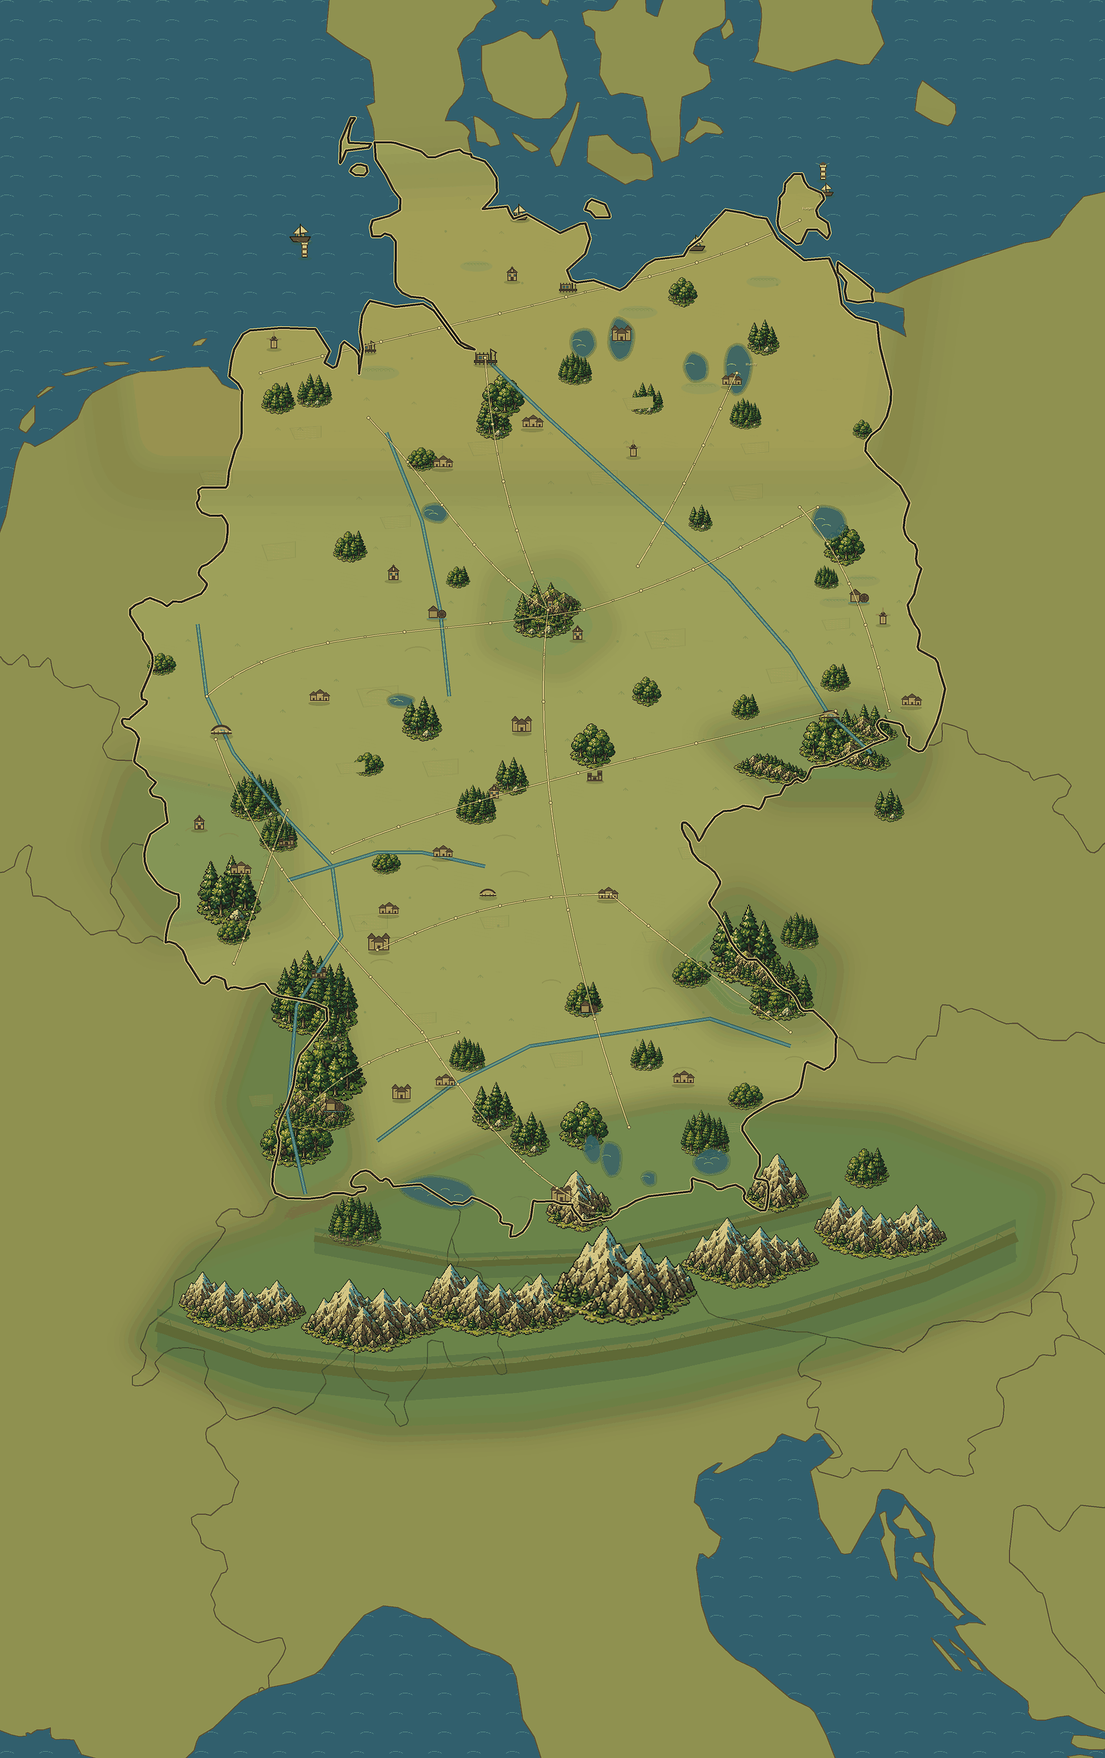
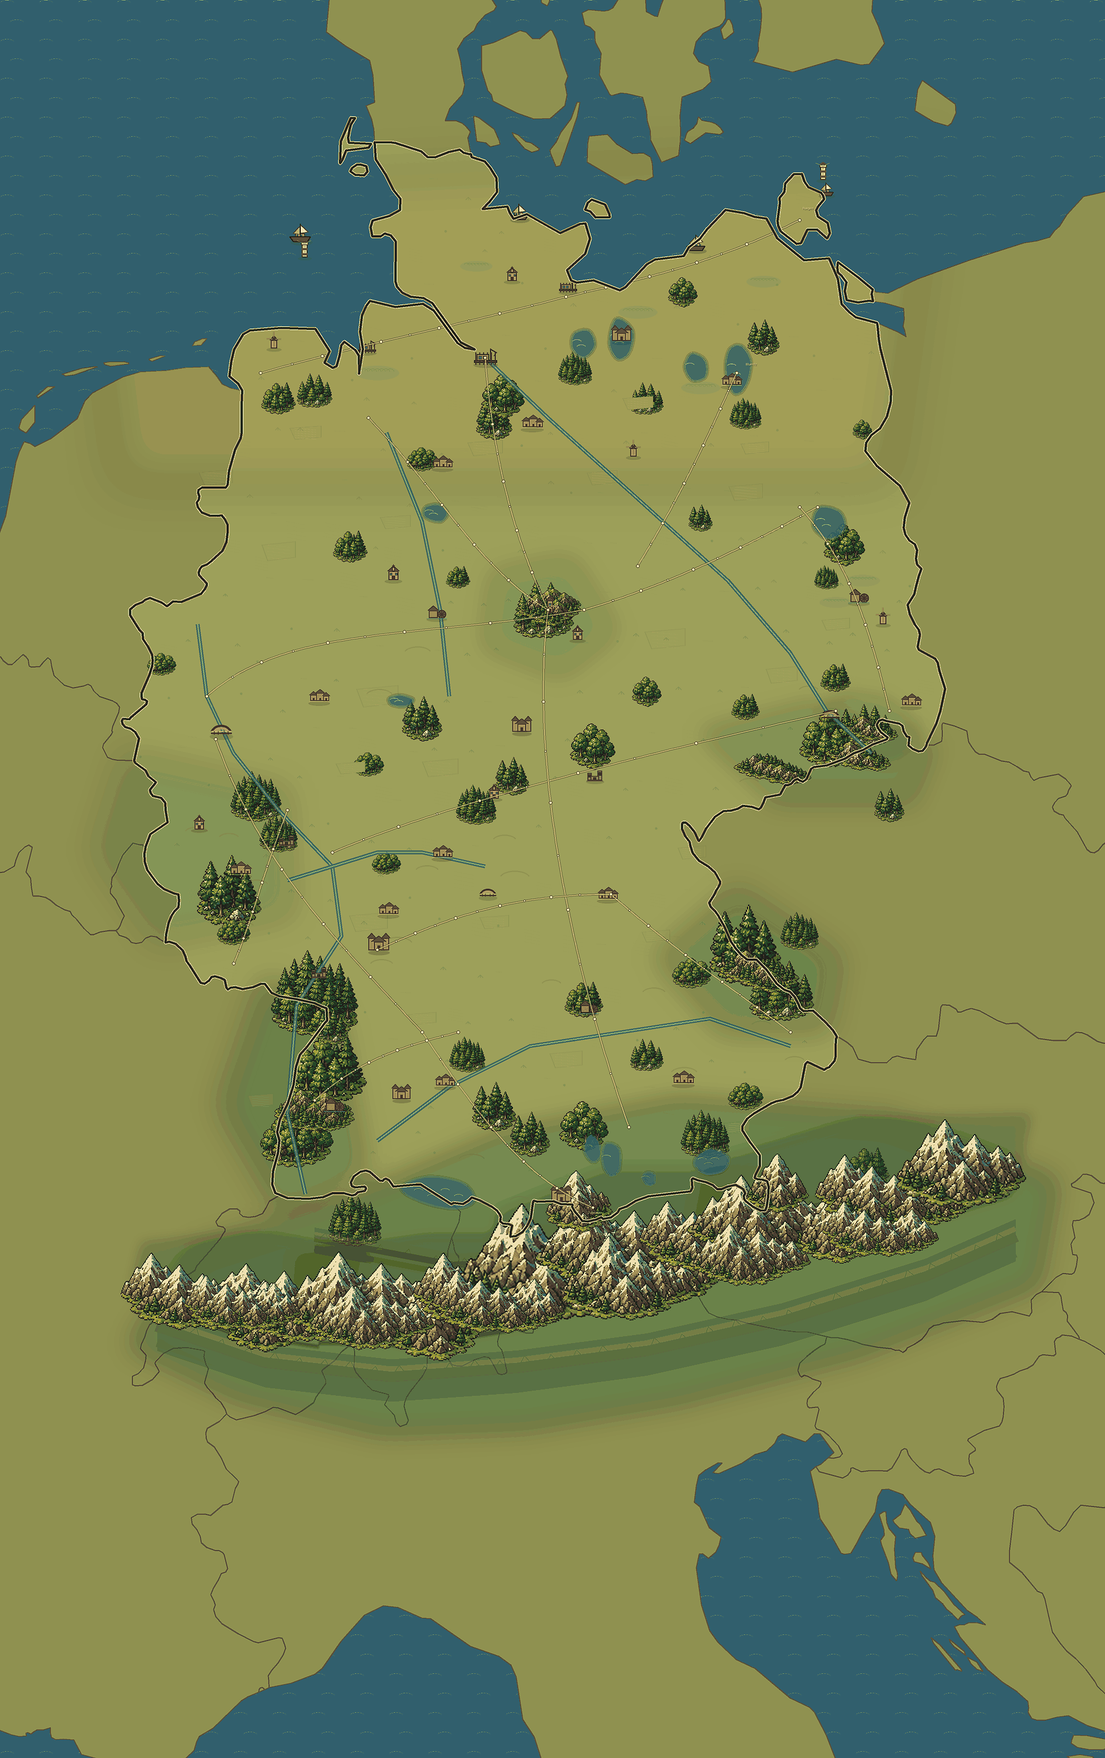
Compose Alps as a massif layer

diff --git a/map_pipeline/compose_map.py b/map_pipeline/compose_map.py
@@ -116,6 +116,55 @@ NAMED_WATER_BODIES = [
     },
 ]
 
+ALPINE_MASSIF_SEGMENTS = [
+    {
+        "id": "western_alps_massif",
+        "label": "Western Alps",
+        "arc": [(6.20, 46.78), (7.10, 46.55), (8.05, 46.45)],
+        "shadow": [(6.00, 46.95), (7.05, 46.66), (8.35, 46.58), (8.55, 47.18), (7.25, 47.30), (6.10, 47.22)],
+        "glyphs": [
+            ("alps_range_3", 6.75, 46.78, 300, 0.00),
+            ("alps_peak_1", 7.45, 46.58, 150, -0.03),
+            ("alps_range_1", 7.92, 46.72, 255, 0.04),
+        ],
+    },
+    {
+        "id": "swiss_alps_massif",
+        "label": "Swiss Alps",
+        "arc": [(8.05, 46.48), (9.10, 46.46), (10.20, 46.58)],
+        "shadow": [(7.75, 46.70), (9.05, 46.46), (10.45, 46.62), (10.65, 47.28), (9.25, 47.28), (7.80, 47.14)],
+        "glyphs": [
+            ("alps_range_1", 8.60, 46.72, 330, 0.00),
+            ("alps_peak_2", 9.35, 46.52, 170, -0.05),
+            ("alps_range_3", 10.00, 46.82, 300, 0.03),
+        ],
+    },
+    {
+        "id": "bavarian_tyrol_alps_massif",
+        "label": "Bavarian and Tyrol Alps",
+        "arc": [(10.20, 46.60), (11.30, 46.82), (12.45, 47.05)],
+        "shadow": [(9.95, 46.84), (11.25, 46.74), (12.75, 47.06), (12.95, 47.78), (11.25, 47.78), (10.05, 47.46)],
+        "glyphs": [
+            ("alps_range_2", 10.55, 46.96, 330, 0.00),
+            ("alps_range_1", 11.42, 47.12, 320, -0.01),
+            ("alps_peak_1", 12.05, 46.95, 160, -0.06),
+            ("alps_range_3", 12.45, 47.24, 275, 0.03),
+        ],
+    },
+    {
+        "id": "austrian_alps_massif",
+        "label": "Austrian Alps",
+        "arc": [(12.45, 47.05), (13.70, 47.28), (15.25, 47.62)],
+        "shadow": [(12.20, 47.26), (13.75, 47.18), (15.75, 47.60), (15.95, 48.18), (14.05, 48.15), (12.35, 47.82)],
+        "glyphs": [
+            ("alps_range_1", 13.05, 47.34, 300, 0.00),
+            ("alps_peak_2", 13.82, 47.24, 145, -0.04),
+            ("alps_range_3", 14.45, 47.56, 290, 0.02),
+            ("alps_range_2", 15.20, 47.78, 245, 0.04),
+        ],
+    },
+]
+
 RELIEF_REGIONS = [
     {
         "id": "black_forest",
@@ -158,13 +207,14 @@ RELIEF_REGIONS = [
                 "step": 48,
             },
         ],
+        "massif_segments": ALPINE_MASSIF_SEGMENTS,
         "mountain_glyphs": [
-            ("alps_range_3", 7.20, 46.72, 235),
-            ("alps_range_1", 8.65, 46.60, 265),
-            ("alps_range_3", 10.05, 46.72, 285),
-            ("alps_range_2", 11.45, 46.88, 275),
-            ("alps_range_1", 12.85, 47.08, 255),
-            ("alps_range_3", 14.30, 47.28, 245),
+            ("alps_range_3", 7.20, 46.72, 215),
+            ("alps_range_1", 8.65, 46.60, 230),
+            ("alps_range_3", 10.05, 46.72, 245),
+            ("alps_range_2", 11.45, 46.88, 235),
+            ("alps_range_1", 12.85, 47.08, 225),
+            ("alps_range_3", 14.30, 47.28, 215),
             ("alps_peak_2", 10.95, 47.48, 130),
             ("alps_peak_1", 13.15, 47.62, 125),
         ],
@@ -526,6 +576,8 @@ def _draw_terrain(canvas, proj, land_mask):
             _draw_tree_cluster(decor, proj, lon, lat, size)
         for ridge_band in region.get("ridge_bands", []):
             _draw_alpine_ridge_band(decor, proj, ridge_band)
+        for massif_segment in region.get("massif_segments", []):
+            _draw_alpine_massif_segment(decor, proj, massif_segment)
         for glyph_name, lon, lat, width in region.get("mountain_glyphs", []):
             _draw_glyph_center(decor, proj, glyph_name, lon, lat, width)
         for lon, lat, size in region.get("mountains", []):
@@ -770,6 +822,30 @@ def _draw_alpine_ridge_band(canvas, proj, ridge_band):
 
     ridge_layer = ridge_layer.filter(ImageFilter.GaussianBlur(0.30 * RENDER_SCALE))
     canvas.alpha_composite(ridge_layer)
+
+
+def _draw_alpine_massif_segment(canvas, proj, segment):
+    shadow_points = [_project_point(proj, lon, lat) for lon, lat in segment.get("shadow", [])]
+    if len(shadow_points) >= 3:
+        shadow_layer = Image.new("RGBA", canvas.size, (0, 0, 0, 0))
+        shadow_draw = ImageDraw.Draw(shadow_layer)
+        shadow_draw.polygon(shadow_points, fill=(47, 75, 45, 84))
+        shadow_draw.line(shadow_points + [shadow_points[0]], fill=(108, 113, 68, 80), width=5 * RENDER_SCALE, joint="curve")
+        shadow_layer = shadow_layer.filter(ImageFilter.GaussianBlur(9 * RENDER_SCALE))
+        canvas.alpha_composite(shadow_layer)
+
+    arc_points = [_project_point(proj, lon, lat) for lon, lat in segment.get("arc", [])]
+    if len(arc_points) >= 2:
+        line_layer = Image.new("RGBA", canvas.size, (0, 0, 0, 0))
+        line_draw = ImageDraw.Draw(line_layer)
+        line_draw.line(arc_points, fill=(43, 59, 40, 120), width=10 * RENDER_SCALE, joint="curve")
+        line_draw.line([(x, y - 5 * RENDER_SCALE) for x, y in arc_points], fill=(180, 168, 112, 92), width=3 * RENDER_SCALE, joint="curve")
+        line_layer = line_layer.filter(ImageFilter.GaussianBlur(1.2 * RENDER_SCALE))
+        canvas.alpha_composite(line_layer)
+
+    for glyph_name, lon, lat, width, y_offset in segment.get("glyphs", []):
+        x, y = _project_point(proj, lon, lat)
+        _draw_glyph_at(canvas, glyph_name, x, y + int(float(y_offset) * width * RENDER_SCALE), width)
 
 
 def _forest_sprite(radius):

diff --git a/tests/test_map_panel_contract.py b/tests/test_map_panel_contract.py
@@ -100,7 +100,7 @@ class MapPanelContractTest(unittest.TestCase):
         self.assertIn('"Dresden"', script_text)
         self.assertIn("city_landmarks/outlined/city_%s.png", script_text)
         self.assertIn("func _draw_centered_label_text(", script_text)
-        self.assertIn("var label_baseline_y := icon_rect.position.y + icon_rect.size.y + 4.0 * zoom", script_text)
+        self.assertIn("var label_baseline_y := icon_rect.position.y + icon_rect.size.y + 1.5 * zoom", script_text)
         self.assertIn("const LANDMARK_EDGE_MARGIN := 96.0", script_text)
         self.assertIn("const SECONDARY_CITY_LABEL_ZOOM := 1.20", script_text)
         self.assertIn("func _screen_point_near_viewport(position: Vector2, margin: float) -> bool:", script_text)
@@ -144,12 +144,12 @@ class MapPanelContractTest(unittest.TestCase):
             "InputEventMagnifyGesture",
             "MOUSE_BUTTON_WHEEL_UP",
             "MOUSE_BUTTON_WHEEL_DOWN",
-            "const PAN_DRAG_SCALE := 0.22",
+            "const PAN_DRAG_SCALE := 1.0",
             "func _pan_by(screen_delta: Vector2) -> void:",
             "pan_offset += screen_delta * PAN_DRAG_SCALE",
             "func _pan_delta_from_mouse_motion(event: InputEventMouseMotion) -> Vector2:",
             "func _pan_delta_from_screen_drag(event: InputEventScreenDrag) -> Vector2:",
-            "event.screen_relative",
+            "event.relative",
             "pan_offset = _default_pan_offset()",
             "func _zoom_at(pivot: Vector2, factor: float) -> void:",
             "clamp(zoom * factor, MIN_ZOOM, MAX_ZOOM)",
@@ -292,9 +292,15 @@ class MapPanelContractTest(unittest.TestCase):
             '"ridge_bands": [',
             '"id": "main_alpine_wall"',
             '"id": "northern_alpine_foothills"',
+            "ALPINE_MASSIF_SEGMENTS = [",
+            '"id": "western_alps_massif"',
+            '"id": "swiss_alps_massif"',
+            '"id": "bavarian_tyrol_alps_massif"',
+            '"id": "austrian_alps_massif"',
+            '"massif_segments": ALPINE_MASSIF_SEGMENTS',
             '"mountain_glyphs": [',
-            '("alps_range_3", 10.05, 46.72, 285)',
-            '("alps_range_1", 12.85, 47.08, 255)',
+            '("alps_range_3", 10.05, 46.72, 245)',
+            '("alps_range_1", 12.85, 47.08, 225)',
             '("highland_forest_1", 10.62, 51.78, 118)',
             '("border_highland_1", 13.10, 50.66, 145)',
             '"extends_to": ["France", "Switzerland", "Italy", "Austria", "Slovenia"]',
@@ -314,7 +320,9 @@ class MapPanelContractTest(unittest.TestCase):
             "for region in RELIEF_REGIONS:",
             'for glyph_name, lon, lat, width in region.get("mountain_glyphs", []):',
             'for ridge_band in region.get("ridge_bands", []):',
+            'for massif_segment in region.get("massif_segments", []):',
             "def _draw_alpine_ridge_band(canvas, proj, ridge_band):",
+            "def _draw_alpine_massif_segment(canvas, proj, segment):",
             "_draw_glyph_center(decor, proj, glyph_name, lon, lat, width)",
             'for lon, lat, size in region.get("mountains", []):',
             'region.get("glyph", "alpine")',

diff --git a/docs/active-map-backlog.md b/docs/active-map-backlog.md
@@ -37,7 +37,7 @@
 - [x] Заменить generic lake glyph placement для ключевых озёр на named coordinate outlines: Bodensee, Müritz, Chiemsee, Schweriner See, Plauer See, Schaalsee, Steinhuder Meer, Edersee, Ammersee, Starnberger See, Tegernsee, Berlin lakes.
 - [x] Настроить visual hierarchy для named lakes: точные озёра приглушены, получили shoreline underpaint и softer highlights, поэтому меньше похожи на overlay markers и лучше сидят в atlas map.
 - [ ] Проверить и откалибровать координаты city landmarks относительно реальной географии: Росток должен быть у моря, Дрезден не должен визуально уезжать в Чехию, города должны совпадать с реальной картой настолько, насколько позволяет художественная подложка.
-- [ ] Исправить pan sensitivity: drag пальцем и мышью должен ощущаться примерно 1:1, без ускорения, где 1 см движения пальца сдвигает карту на несколько сантиметров.
+- [x] Исправить pan sensitivity: drag пальцем и мышью теперь использует viewport-local `event.relative` и `PAN_DRAG_SCALE := 1.0`, чтобы движение было 1:1 в координатах карты, без `screen_relative` acceleration.
 - [ ] Разобраться с тем, почему пользователь может видеть старую версию с точками вместо city landmark icons: web rebuild, Godot import, browser cache, service worker/PWA/cache busting.
 - [ ] Довести city landmark layer: сделать иконки достаточно крупными, не перекрывать labels/markers, использовать правильные немецкие названия с умляутами.
 - [ ] Заменить cluster count badges на более нативные atlas group markers: сейчас они функциональны, но все еще выглядят как UI-счетчики.
@@ -46,10 +46,10 @@
 - [x] Добавить outline-only runtime sprites для транспортных и city landmark иконок: объекты должны читаться поверх детальной карты без кругов, плашек и фоновых подложек.
 - [x] Снизить clutter на default zoom: второстепенные подписи городов появляются после zoom `1.20`, а названия под иконками стали ближе к пиктограммам.
 - [x] Сделать стартовый zoom адаптивным: portrait остается крупным, landscape/desktop не получает дополнительный `1.10` zoom и меньше режет ориентиры у краев.
-- [ ] #62 Перевести рельеф из декоративных гор в точные переиспользуемые overlay-слои: Alps, Harz, Black Forest, Erzgebirge, Bavarian Forest и другие реальные массивы. Германия начата; нужно расширить и проверить слой по Европе.
+- [ ] #62 Перевести рельеф из декоративных гор в точные переиспользуемые overlay-слои: Alps, Harz, Black Forest, Erzgebirge, Bavarian Forest и другие реальные массивы. Германия начата; Альпы переведены в составной Alpine massif layer, но нужно расширить и проверить слой по Европе.
 - [x] Начать настройку масштаба/якорей terrain glyphs через явные `mountain_glyphs`: Альпы, Harz, Erzgebirge, Black Forest и Bavarian Forest больше не выбираются hash-ом.
 - [x] Сделать первый непрерывный cross-border pass для Альп: explicit `main_alpine_wall` и `northern_alpine_foothills` ridge bands плюс перераспределенные `alps_range_*` glyphs вместо короткого обрубленного массива только у юга Германии.
-- [ ] Проверить и откалибровать `mountain_glyphs` по реальным relief extents: Альпы должны начинаться/заканчиваться по настоящему массиву, Harz/Erzgebirge/Black Forest/Bavarian Forest не должны расползаться за свои области.
+- [ ] Проверить и откалибровать `mountain_glyphs` по реальным relief extents: Альпы теперь состоят из `western_alps_massif`, `swiss_alps_massif`, `bavarian_tyrol_alps_massif`, `austrian_alps_massif`, но их scale/edge still need geography audit; Harz/Erzgebirge/Black Forest/Bavarian Forest не должны расползаться за свои области.
 - [ ] #64 Провести terrain accuracy audit текущей Германии: убрать ложные большие горы у Hamburg/севера и проверить, что все видимые горы соответствуют реальности.
 - [ ] #63 Спроектировать Europe map pipeline для следующих стран и регионов: France, Spain, Italy, Switzerland, Austria, Germany neighbors, Scandinavia, Finland, Baltics, Russia, Belarus, Ukraine до украинских гор, Turkey; рельефные слои должны продолжаться через границы.
 - [ ] #63 Позже разбить большую Europe pipeline issue на маленькие блоки по странам/регионам/слоям, но пока держать общий список в одной issue, чтобы ничего не потерять.
@@ -62,5 +62,5 @@
 ## Current Known State
 
 - Карта на `http://127.0.0.1:9000/` пересобрана из `main`.
-- Последний map commit на момент обновления backlog: pending Alpine ridge-band iteration.
-- Текущая карта технически рабочая и архитектурно движется в glyph-based direction. Честная оценка после screenshots: около `6/10`. Нельзя оценивать ее как `8/10`: нужна более сильная художественная плотность, audit рельефа/озер/координат, отдельные high-quality mountain glyphs for Alps/etc. и дальнейшая Европа через explicit layers.
+- Последний map commit на момент обновления backlog: pending composed Alpine massif iteration.
+- Текущая карта технически рабочая и архитектурно движется в glyph-based direction. Честная оценка после screenshots: около `6/10`, местами ближе к `6.5/10` по южному виду из-за более узнаваемых Альп. Нельзя оценивать ее как `8/10`: нужна более сильная художественная плотность, audit рельефа/озер/координат, finer high-quality mountain glyphs and broader Europe explicit layers.

diff --git a/docs/map-orchestrator-progress.md b/docs/map-orchestrator-progress.md
@@ -477,3 +477,35 @@ Checks:
 - `PLAYWRIGHT_PACKAGE=/tmp/cable-playwright/node_modules/playwright URL=http://127.0.0.1:9000/ node scripts/verify-web-map.mjs`: screenshots regenerated.
 
 Self-audit: still around `6/10`. The exact lake layer now has better hierarchy, but this is not an `8/10` map yet. The next visible win should be a stronger terrain/glyph art pass plus geography audit for relief, city positions, islands and large water bodies.
+
+## Iteration 2026-05-31 17:22
+
+Implemented:
+
+- Reworked the Alps from a generic mountain row into a composed Alpine massif layer.
+- Added `ALPINE_MASSIF_SEGMENTS` with named segments:
+  - `western_alps_massif`
+  - `swiss_alps_massif`
+  - `bavarian_tyrol_alps_massif`
+  - `austrian_alps_massif`
+- Each segment has an explicit geographic arc, a soft relief shadow and multiple overlapping Alpine glyph placements. This keeps the production direction as reusable glyph layers, not a monolithic generated map.
+- Did not spend a new image-generation request for this pass; reused the existing Alpine glyph source assets and composed them more intentionally.
+- Tightened city labels under landmark pictograms: label baseline moved from `4.0 * zoom` to `1.5 * zoom`.
+- Changed pan drag to viewport-local deltas: mouse/touch panning now uses `event.relative` with `PAN_DRAG_SCALE := 1.0` instead of `screen_relative`, so drag speed should feel closer to 1:1 across desktop and mobile.
+
+Evidence:
+
+- `assets/map/germany_styled.png`: `1932x3072`, about 2.2 MB after the composed Alpine massif pass.
+- Mobile screenshot `/tmp/cable-world-web-map/mobile-390x844-initial.png` now shows a continuous Alpine wall near München/Alpen instead of disconnected generic mountains.
+- Mobile screenshot `/tmp/cable-world-web-map/mobile-390x844-after-drag.png` shows zoom capped at `150%` with the new pan behavior active.
+- Desktop screenshot `/tmp/cable-world-web-map/desktop-1280x800-initial.png` regenerated after the same build.
+- `curl -I --compressed http://127.0.0.1:9000/index.pck`: `Content-Encoding: gzip`, `Content-Length: 5916349`, `Cache-Control: no-store`.
+
+Checks:
+
+- `python3 -m unittest tests.test_map_panel_contract tests.test_export_payload_contract tests.test_android_export_contract`: 18 OK.
+- `godot --headless --path . --import --quit`: no parse/import errors. Existing worktree warning and adb daemon warning remain.
+- Web export rebuilt and served on `http://127.0.0.1:9000/`.
+- `PLAYWRIGHT_PACKAGE=/tmp/cable-playwright/node_modules/playwright URL=http://127.0.0.1:9000/ node scripts/verify-web-map.mjs`: screenshots regenerated.
+
+Self-audit: still not `8/10`; call it about `6/10` overall, with the Alpine area improved toward `6.5/10`. The Alps now read as a real massif, but the scale may be too dominant and needs geography/art audit against Switzerland/Austria/Italy before this can count as final.
